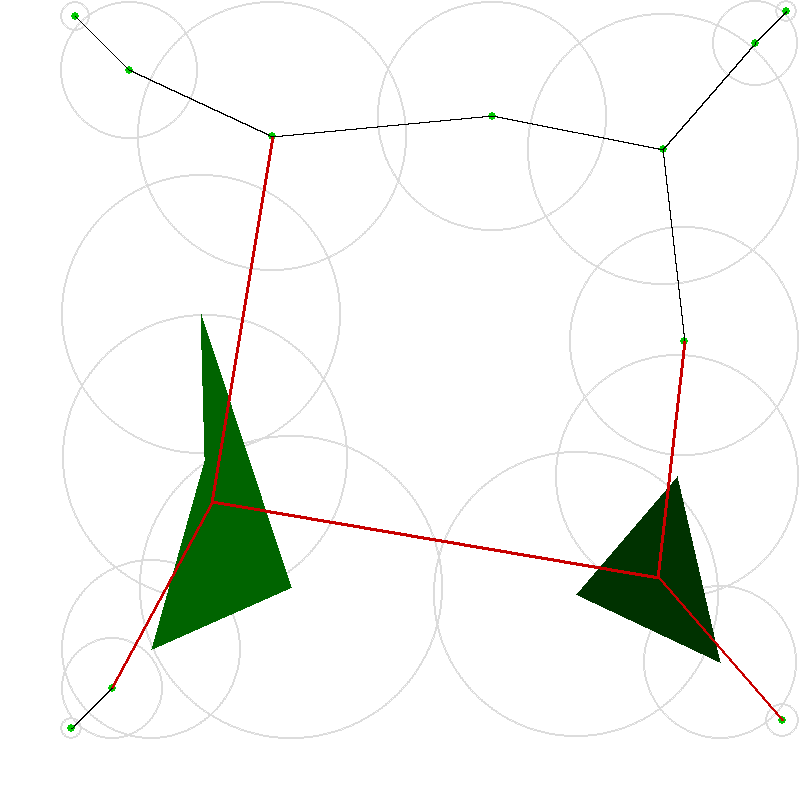
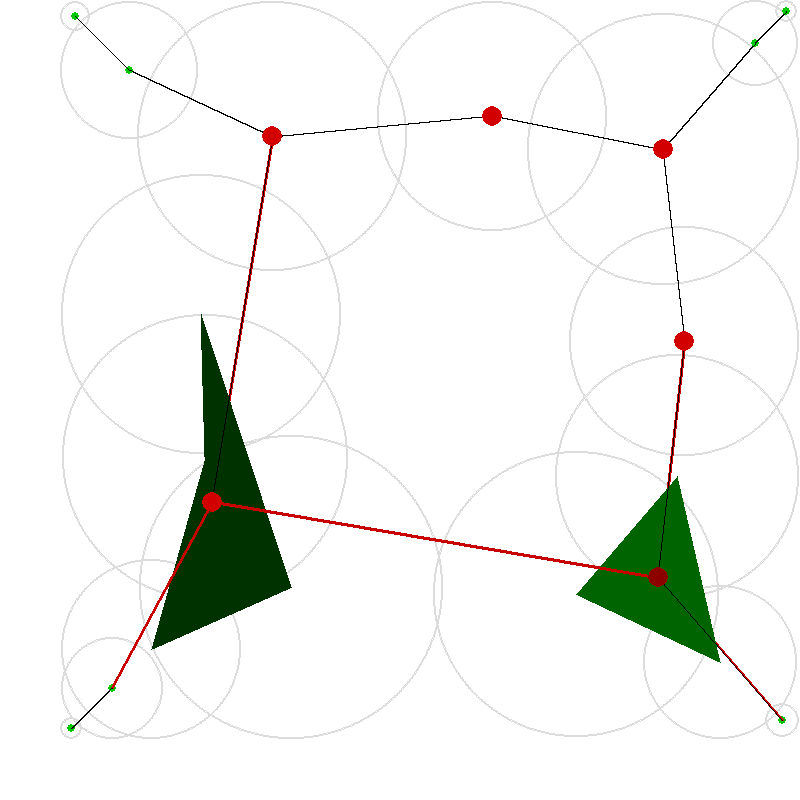
roadmap found different paths

diff --git a/topology/test.py b/topology/test.py
@@ -92,7 +92,7 @@ def main():
 	#draw_triangles(DISPLAYSURF, triangle_set);
 	
 	components = alphashape.contract(triangle_set, edge_tri_dict);
-	print len(components)
+	#print len(components)
 	i = 1;
 	for component in components:
 		draw_triangles(DISPLAYSURF, component, (0,50 * i, 50 * i));
@@ -101,12 +101,39 @@ def main():
 
 	rmp_graph_dict = alphashape.build_topology_roadmap(components,graph_dict);
 	
-	print len(rmp_graph_dict.keys())
+	#print len(rmp_graph_dict.keys())
 
 	draw_topology_roadmap(DISPLAYSURF, rmp_graph_dict)
 	
 
-	#graph = hyper_graph(new_graph_dict);
+	graph = Graph(rmp_graph_dict);
+
+	start = vec([400,400, 100, 400]);
+	end   = vec([400, 400, 700, 400]);
+
+	start_node = graph.find_node(start);
+	end_node   = graph.find_node(end);
+
+	print start_node;
+	print end_node
+
+	paths = graph.find_all_paths(start_node, end_node);
+	print len(paths);
+	i = 0;
+	for path in paths:
+		i += 1
+		print '================'
+		for node in path:
+			if isinstance(node, hyper_sphere):
+				point = ( int(node.center[2]), int(node.center[3]) )
+				print point
+				pygame.draw.circle(DISPLAYSURF, (70*i,0,0), point, 10 );
+			elif isinstance(node, Component):
+				center = component_center(node);
+				point = ( int(center[2]), int(center[3]) );
+				print point
+				pygame.draw.circle(DISPLAYSURF, (70*i,0,0), point, 10 );
+
 
 	pygame.image.save(DISPLAYSURF, 'roadmap.PNG');
 

diff --git a/topology/hyper_graph.py b/topology/hyper_graph.py
@@ -62,6 +62,19 @@ class Graph:
 		vert_num = len(self.graphdict.keys());
 		return edge_num - vert_num + 1;
 
+	def find_node( self, config ):
+		'''given a config in 4D, find the containing node in the graph'''
+		for node in self.graphdict.keys():
+			if isinstance(node, hyper_sphere):
+				if node.contains(config):
+					return node;
+				pass;
+			elif isinstance(node, Component):
+				for sphere in node.spheres():
+					if sphere.contains(config):
+						return node;
+		return None;
+
 	def find_all_paths(self, start, end, path=[]):
 		path = path + [start];
 		if start == end:
@@ -71,7 +84,7 @@ class Graph:
 		paths = [];
 		for neighbor in self.graphdict[start]:
 			if neighbor not in path:
-				newpaths = self.find_all_paths( node, end, path);
+				newpaths = self.find_all_paths( neighbor, end, path);
 				for newpath in newpaths:
 					paths.append(newpath);
 		return paths;

diff --git a/sampling/test.py b/sampling/test.py
@@ -34,9 +34,9 @@ def main():
 	#	point = (int(config[2]), int(config[3]));
 	#	pygame.draw.line( DISPLAYSURF, (0,0,0), point, point, 3 );
 
-	random_configs = sampler.random_configs(4, 6000, dimensions);
-	ma_samples = sampler.sample_medial_axis(random_configs, dimensions, 'L1');
-	sampler.save_data(ma_samples, 'BlockRobotMASamplesL1.txt');
+	random_configs = sampler.random_configs(4, 15000, dimensions);
+	ma_samples = sampler.sample_medial_axis(random_configs, dimensions, 'L2');
+	sampler.save_data(ma_samples, 'BlockRobotMASamplesL2.txt');
 
 	print 'Get {0} medial axis samples'.format(len(ma_samples));
 
@@ -50,7 +50,7 @@ def main():
 	#robot.set_config(testConfig);
 	#robot.render(DISPLAYSURF, 200);
 
-	pygame.image.save(DISPLAYSURF, 'BlockRobotL1.PNG');
+	pygame.image.save(DISPLAYSURF, 'BlockRobotL2.PNG');
 
 if __name__ == '__main__':
 	main();

diff --git a/sampling/masampling.py b/sampling/masampling.py
@@ -199,7 +199,7 @@ class MedialAxisSampler:
 	def sample_medial_axis(self, randSamples, dimensions, mode = 'L2'):
 		'''Given a bunch of random samples, find some medial axis samples using them.
 		@param dimensions: max values of each dimension'''
-		length = 30;
+		length = 40;
 		ma_samples = []
 
 		for config in randSamples:
@@ -214,7 +214,7 @@ class MedialAxisSampler:
 			'''
 			rnd_dir = self.random_dir( len(config) );
 			center, clearance = self.helper.maSample(self.robot, config, rnd_dir, length, dimensions, mode);
-			if clearance == None or clearance <= 5.0:
+			if clearance == None or clearance <= 2.0:
 				continue;
 			sample = Sample(center, clearance, mode,);
 			good = True;

diff --git a/basics/robotics/BlockRobots.py b/basics/robotics/BlockRobots.py
@@ -68,8 +68,8 @@ class Block(Polygon):
 class BlockRobot( Robot ):
 	def __init__(self, unit_len=15):
 		self.unit_size = unit_len;
-		#pntlist = [ v2(0,0), v2(4,0), v2(4,-3), v2(3,-3), v2(3,-1), v2(1,-1), v2(1,-7), v2(4,-7), v2(4,-8), v2(0,-8) ];
-		pntlist = [ v2( 0,0 ), v2( 4,0 ), v2( 4,-4 ), v2( 0, -4 ) ];
+		pntlist = [ v2(0,0), v2(6,0), v2(6,-3), v2(5,-3), v2(5,-1), v2(1,-1), v2(1,-7), v2(6,-7), v2(6,-8), v2(0,-8) ];
+		#pntlist = [ v2( 0,0 ), v2( 4,0 ), v2( 4,-4 ), v2( 0, -4 ) ];
 		for point in pntlist:
 			point *= self.unit_size;
 
